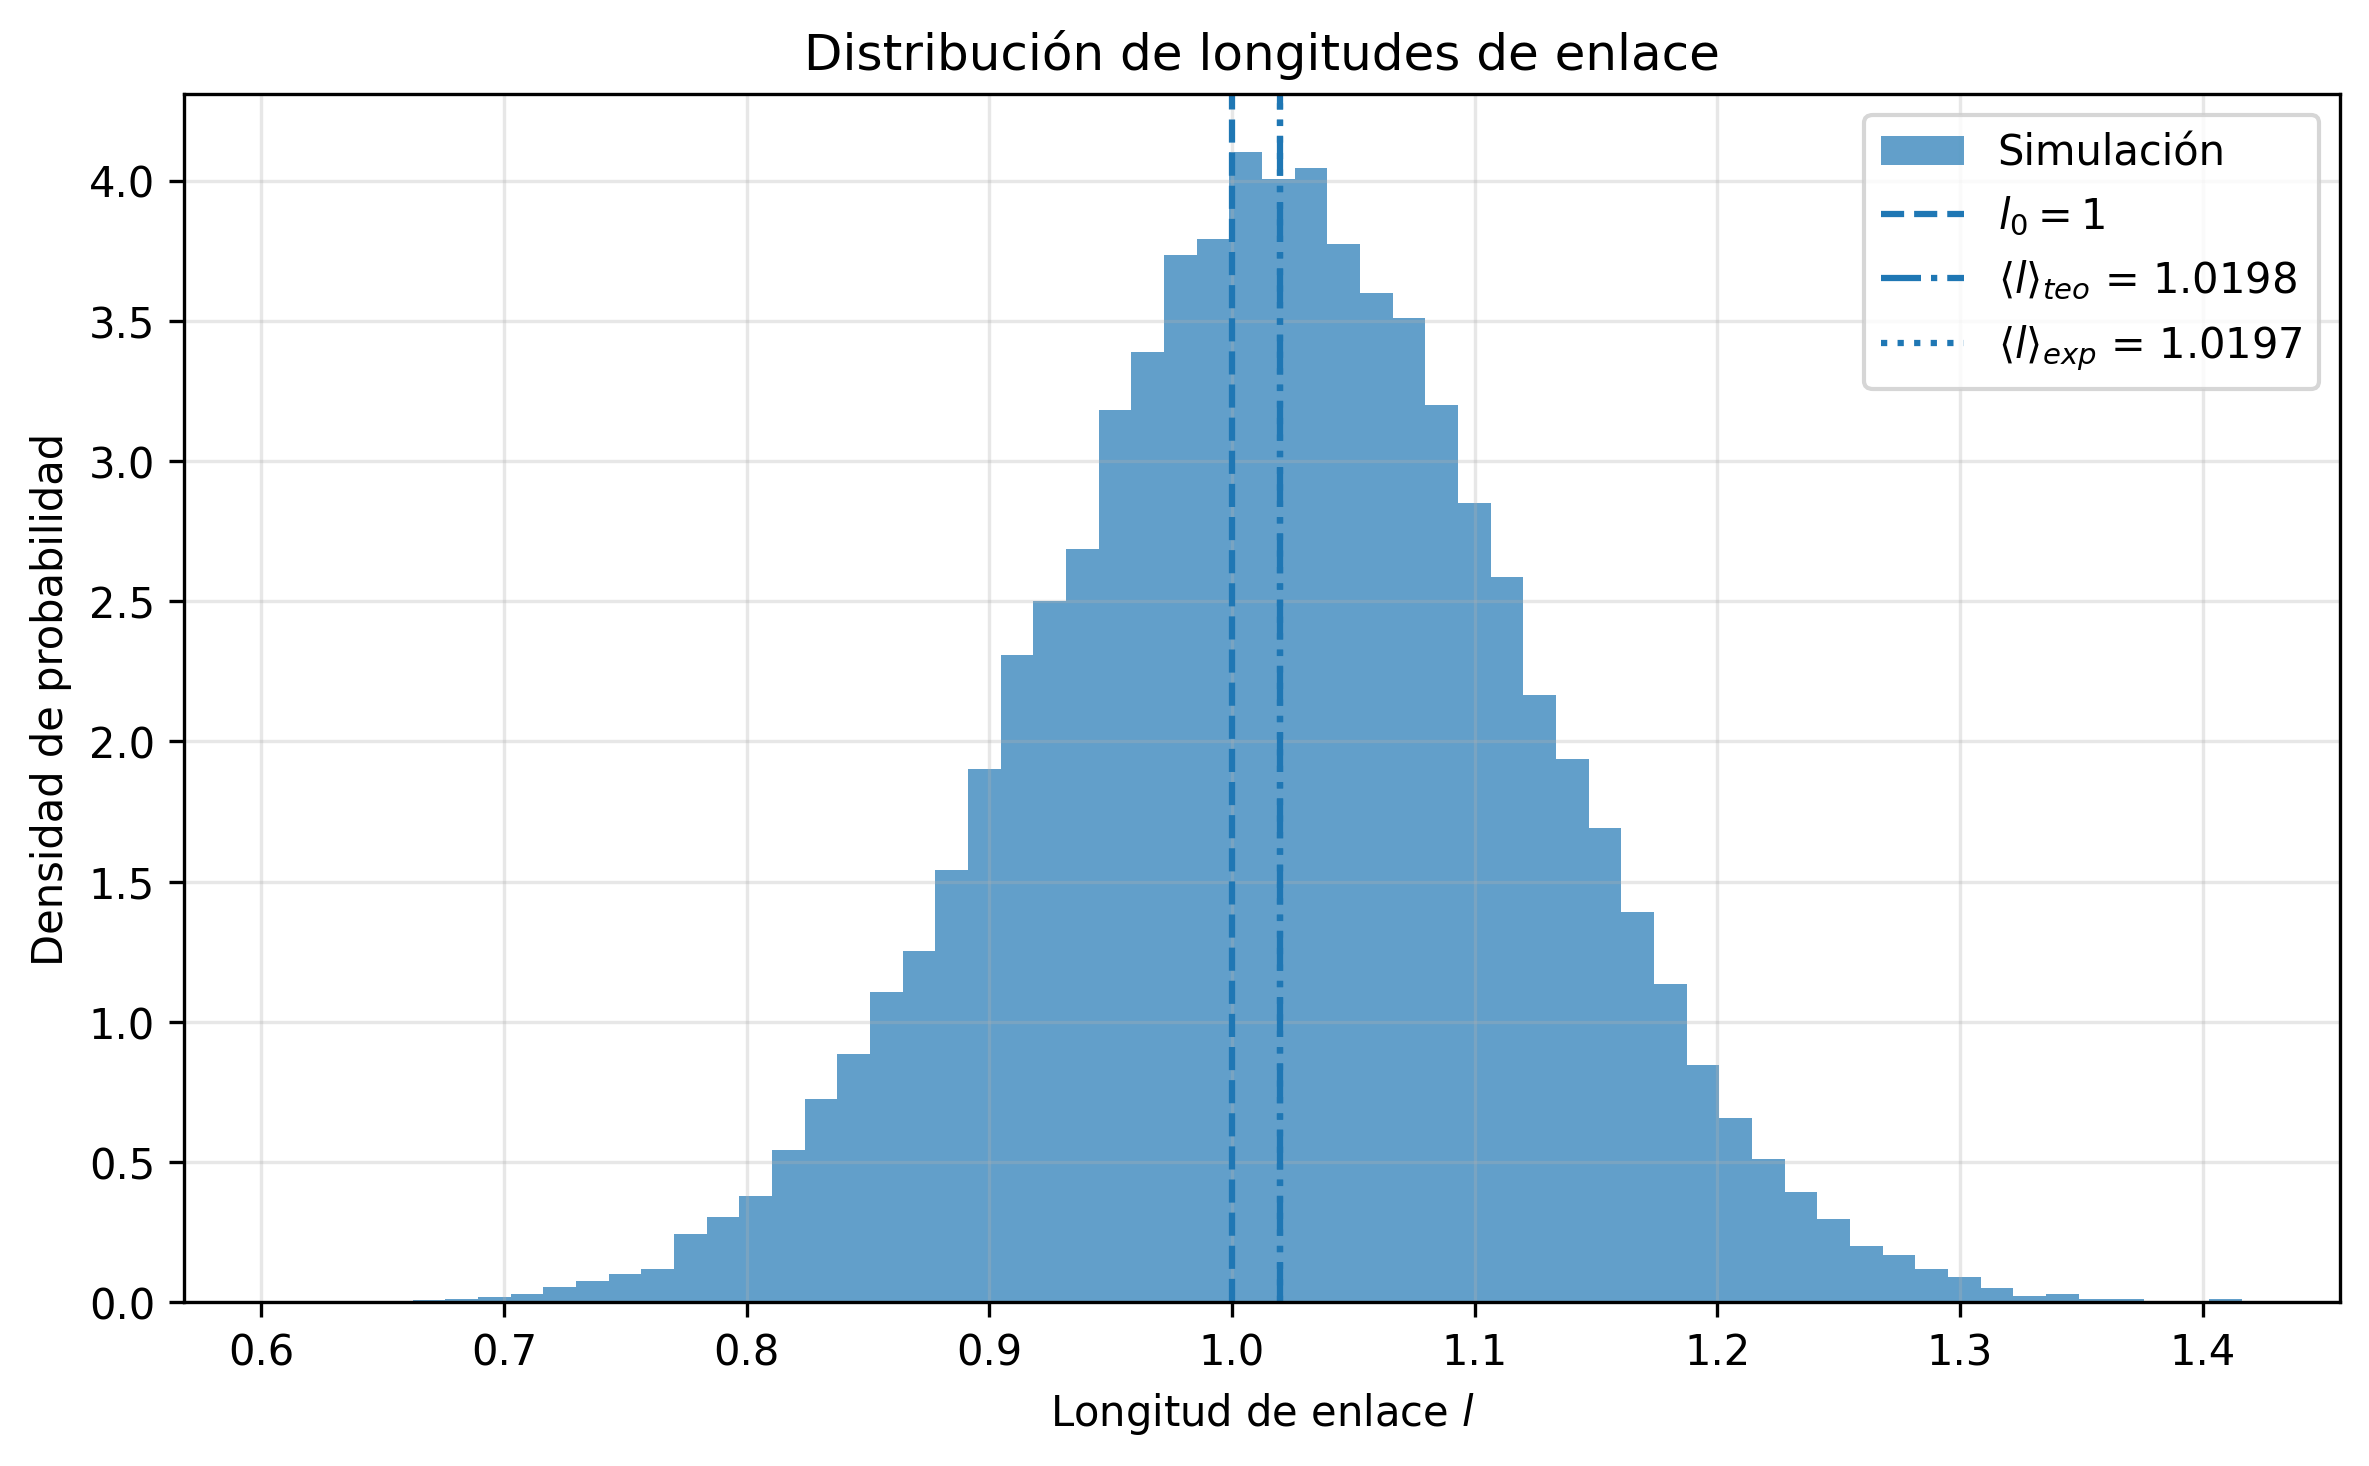
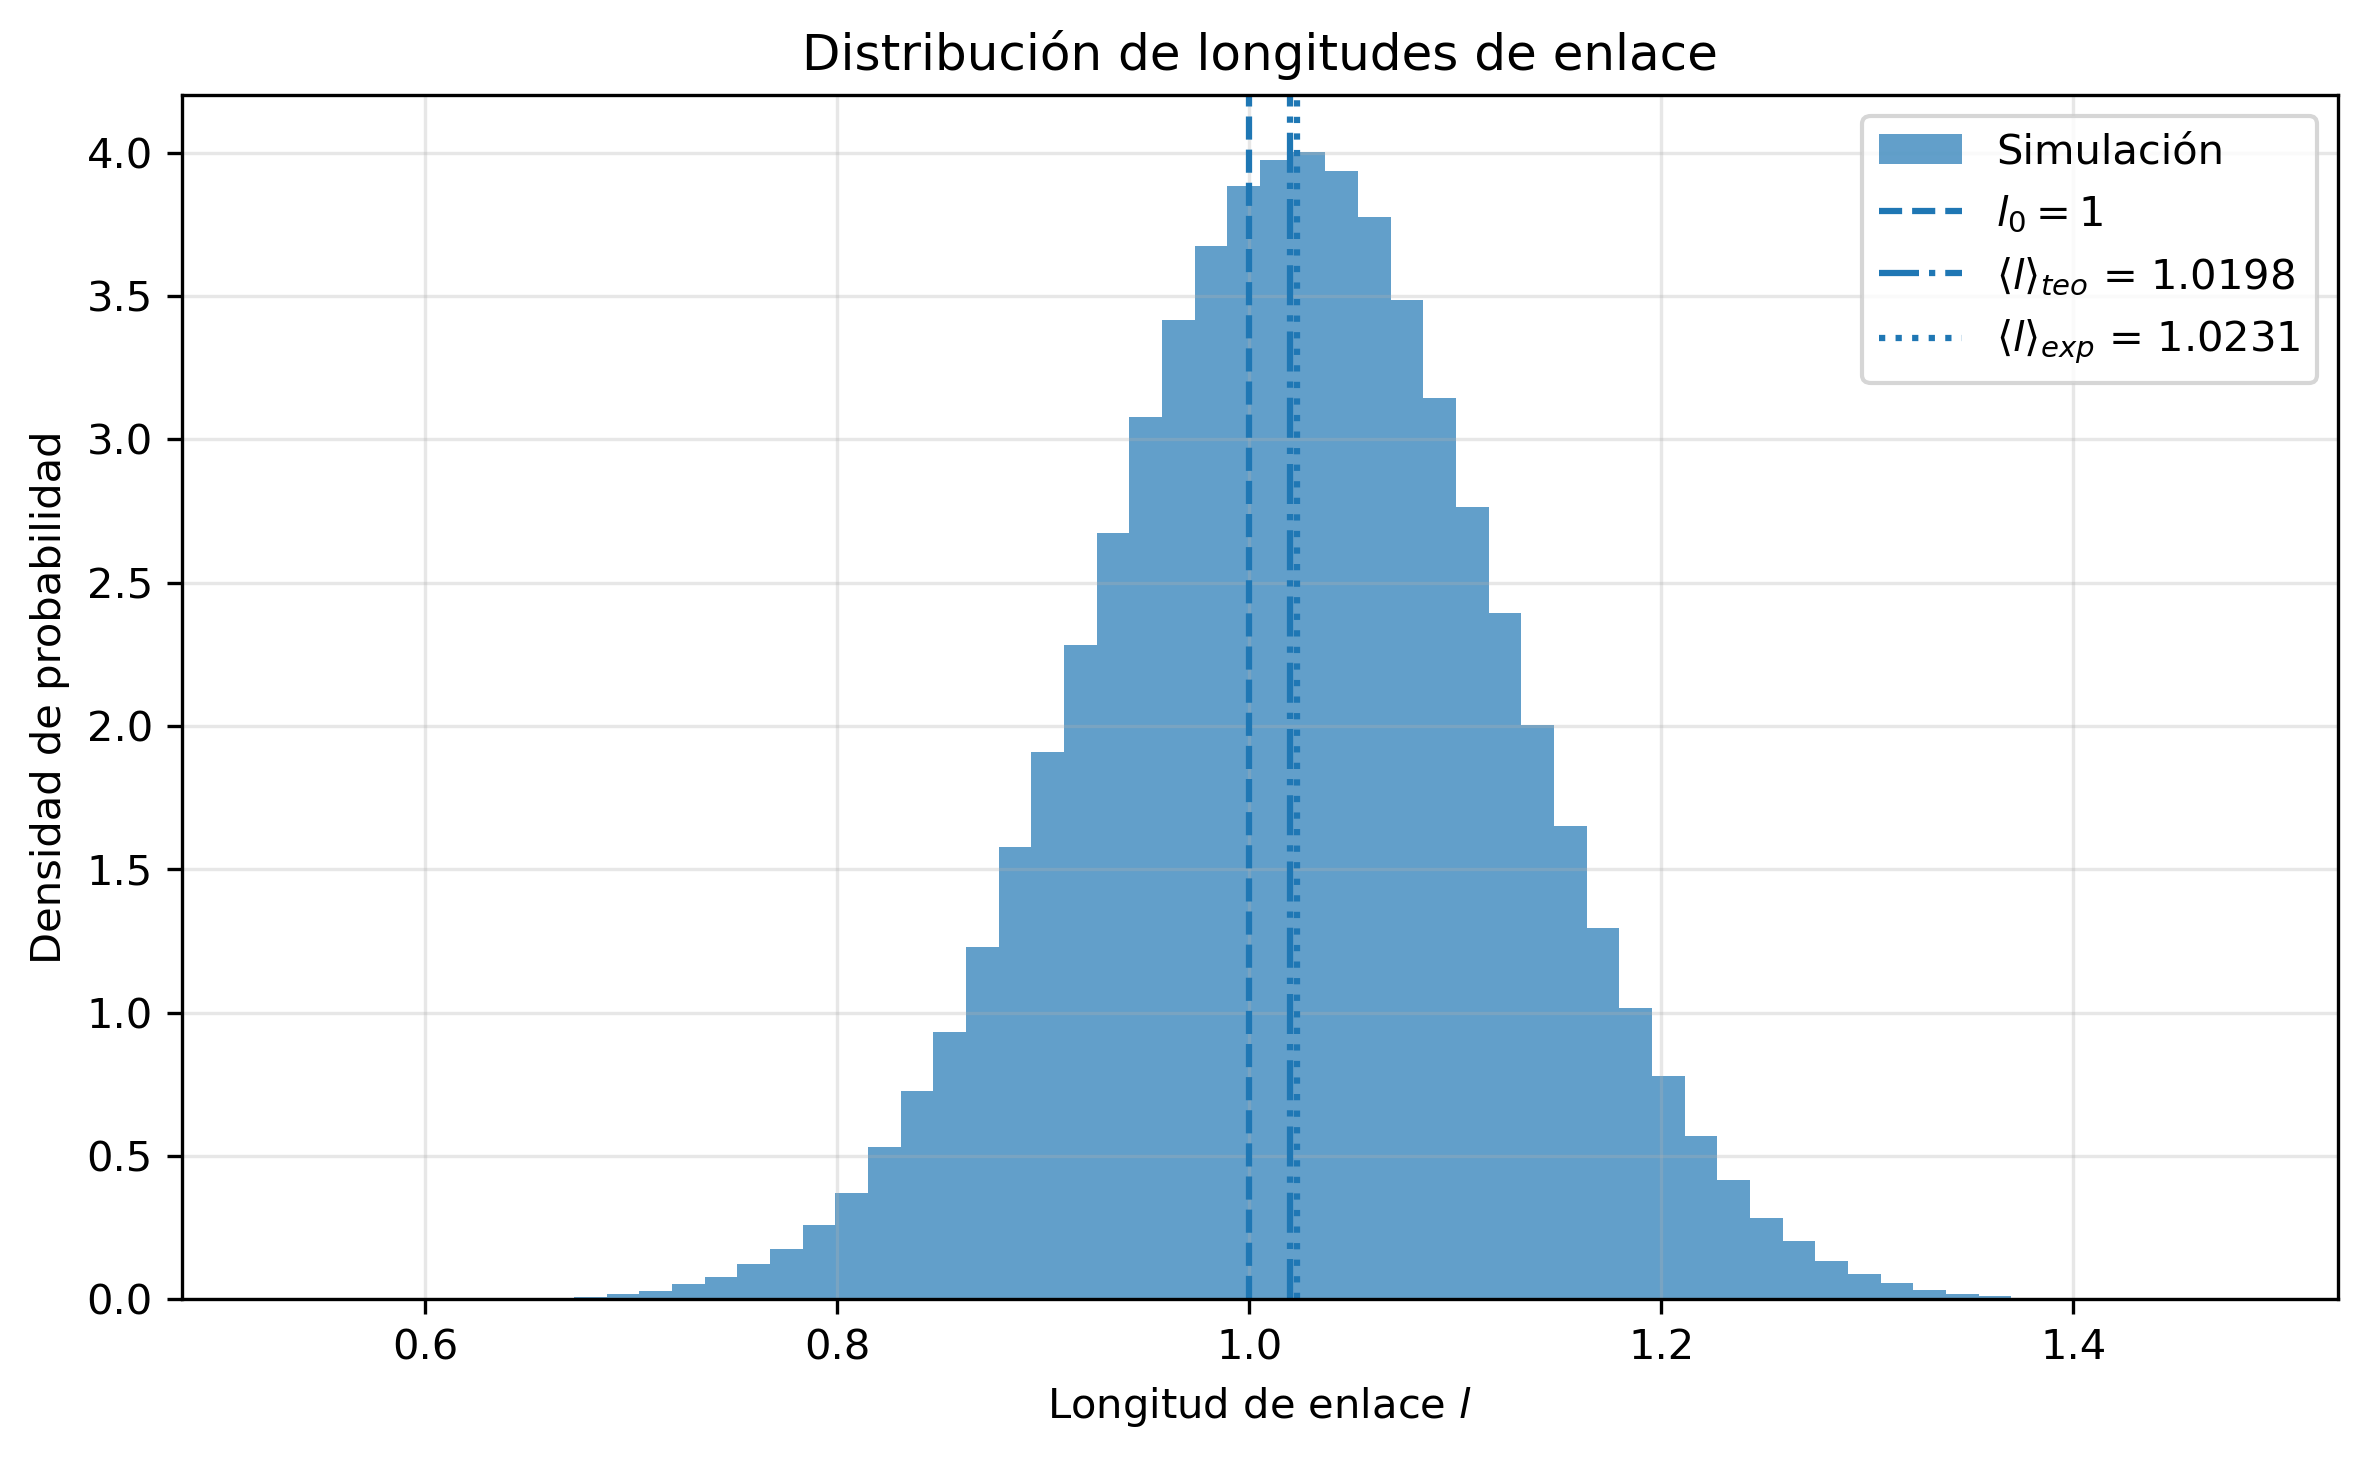
Fuerza polimero

diff --git a/src/polymer.cpp b/src/polymer.cpp
@@ -91,6 +91,9 @@ void polymerForces(
         fy[i + 1] -= forceY;
         fz[i + 1] -= forceZ;
     }
+
+    // Fuerza constante en dirección +x sobre el último monómero
+    fx[polymer.N - 1] += polymer.externalForce;
 }
 
 double polymerKineticEnergy(
@@ -206,6 +209,17 @@ void polymerGJFStep(
     // Nuevas posiciones
     for (int i = 0; i < polymer.N; i++)
     {
+        if (i == 0)
+        {
+            xNew[i] = x[i];
+            yNew[i] = y[i];
+            zNew[i] = z[i];
+            betaX[i] = 0.0;
+            betaY[i] = 0.0;
+            betaZ[i] = 0.0;
+            continue;
+        }
+
         betaX[i] =
             noiseAmplitude * randGaussian();
 
@@ -238,6 +252,14 @@ void polymerGJFStep(
     // Nuevas velocidades
     for (int i = 0; i < polymer.N; i++)
     {
+        if (i == 0)
+        {
+            vx[i] = 0.0;
+            vy[i] = 0.0;
+            vz[i] = 0.0;
+            continue;
+        }
+
         vxNew[i] =
             a * vx[i] + simulation.dt * (a * fx[i] + fxNew[i]) / (2.0 * simulation.mass) + b * betaX[i] / simulation.mass;
 

diff --git a/src/main.cpp b/src/main.cpp
@@ -51,6 +51,7 @@ int main()
     polymerParameters.N = 8;
     polymerParameters.springConstant = 100.0;
     polymerParameters.equilibriumLength = 1.0;
+    polymerParameters.externalForce = 0.0;
 
     // Valores por defecto
     algorithm = EULER_MARUYAMA;
@@ -232,6 +233,9 @@ int main()
                     "force") == 0)
             {
                 modelParameters.externalForce =
+                    atof(
+                        value);
+                polymerParameters.externalForce =
                     atof(
                         value);
             }
@@ -454,6 +458,10 @@ int main()
         printf(
             "l0 = %g\n",
             polymerParameters.equilibriumLength);
+
+        printf(
+            "External force on last monomer (+x) = %g\n",
+            polymerParameters.externalForce);
 
         printf("\n");
 

diff --git a/src/polymer_simulation.cpp b/src/polymer_simulation.cpp
@@ -167,7 +167,7 @@ void runPolymerSimulation(
             thermalizationStep++;
 
             for (
-                int i = 0;
+                int i = 1;
                 i < polymer.N;
                 i++)
             {
@@ -192,7 +192,7 @@ void runPolymerSimulation(
         }
 
         int samples =
-            POLYMER_WINDOW * polymer.N * 3;
+            POLYMER_WINDOW * (polymer.N - 1) * 3;
 
         velocityMean =
             velocitySum / samples;
@@ -391,6 +391,11 @@ void runPolymerSimulation(
             parametersFile,
             "l0=%lf\n",
             polymer.equilibriumLength);
+
+        fprintf(
+            parametersFile,
+            "force=%lf\n",
+            polymer.externalForce);
 
         fprintf(
             parametersFile,

diff --git a/include/polymer.hpp b/include/polymer.hpp
@@ -10,6 +10,7 @@ struct PolymerParameters
     int N;
     double springConstant;
     double equilibriumLength;
+    double externalForce;
 };
 
 // Inicializa una cadena recta

diff --git a/README.md b/README.md
@@ -72,6 +72,13 @@ Contiene los algoritmos de integración numérica:
 - Runge-Kutta estocástico;
 - Grønbech-Jensen.
 
+### Polímero con un extremo fijo y fuerza externa
+
+En una simulación `POLYMER`, el primer monómero permanece fijo en su posición
+inicial y el parámetro `force` aplica una fuerza constante en dirección `+x`
+sobre el último monómero. Se puede ajustar en `config/simulation.txt`; por
+ejemplo, `force=1.0`. El valor cero desactiva la fuerza.
+
 ## Carpeta `include/`
 
 Contiene las cabeceras `.hpp` correspondientes a los archivos de `src/`.
